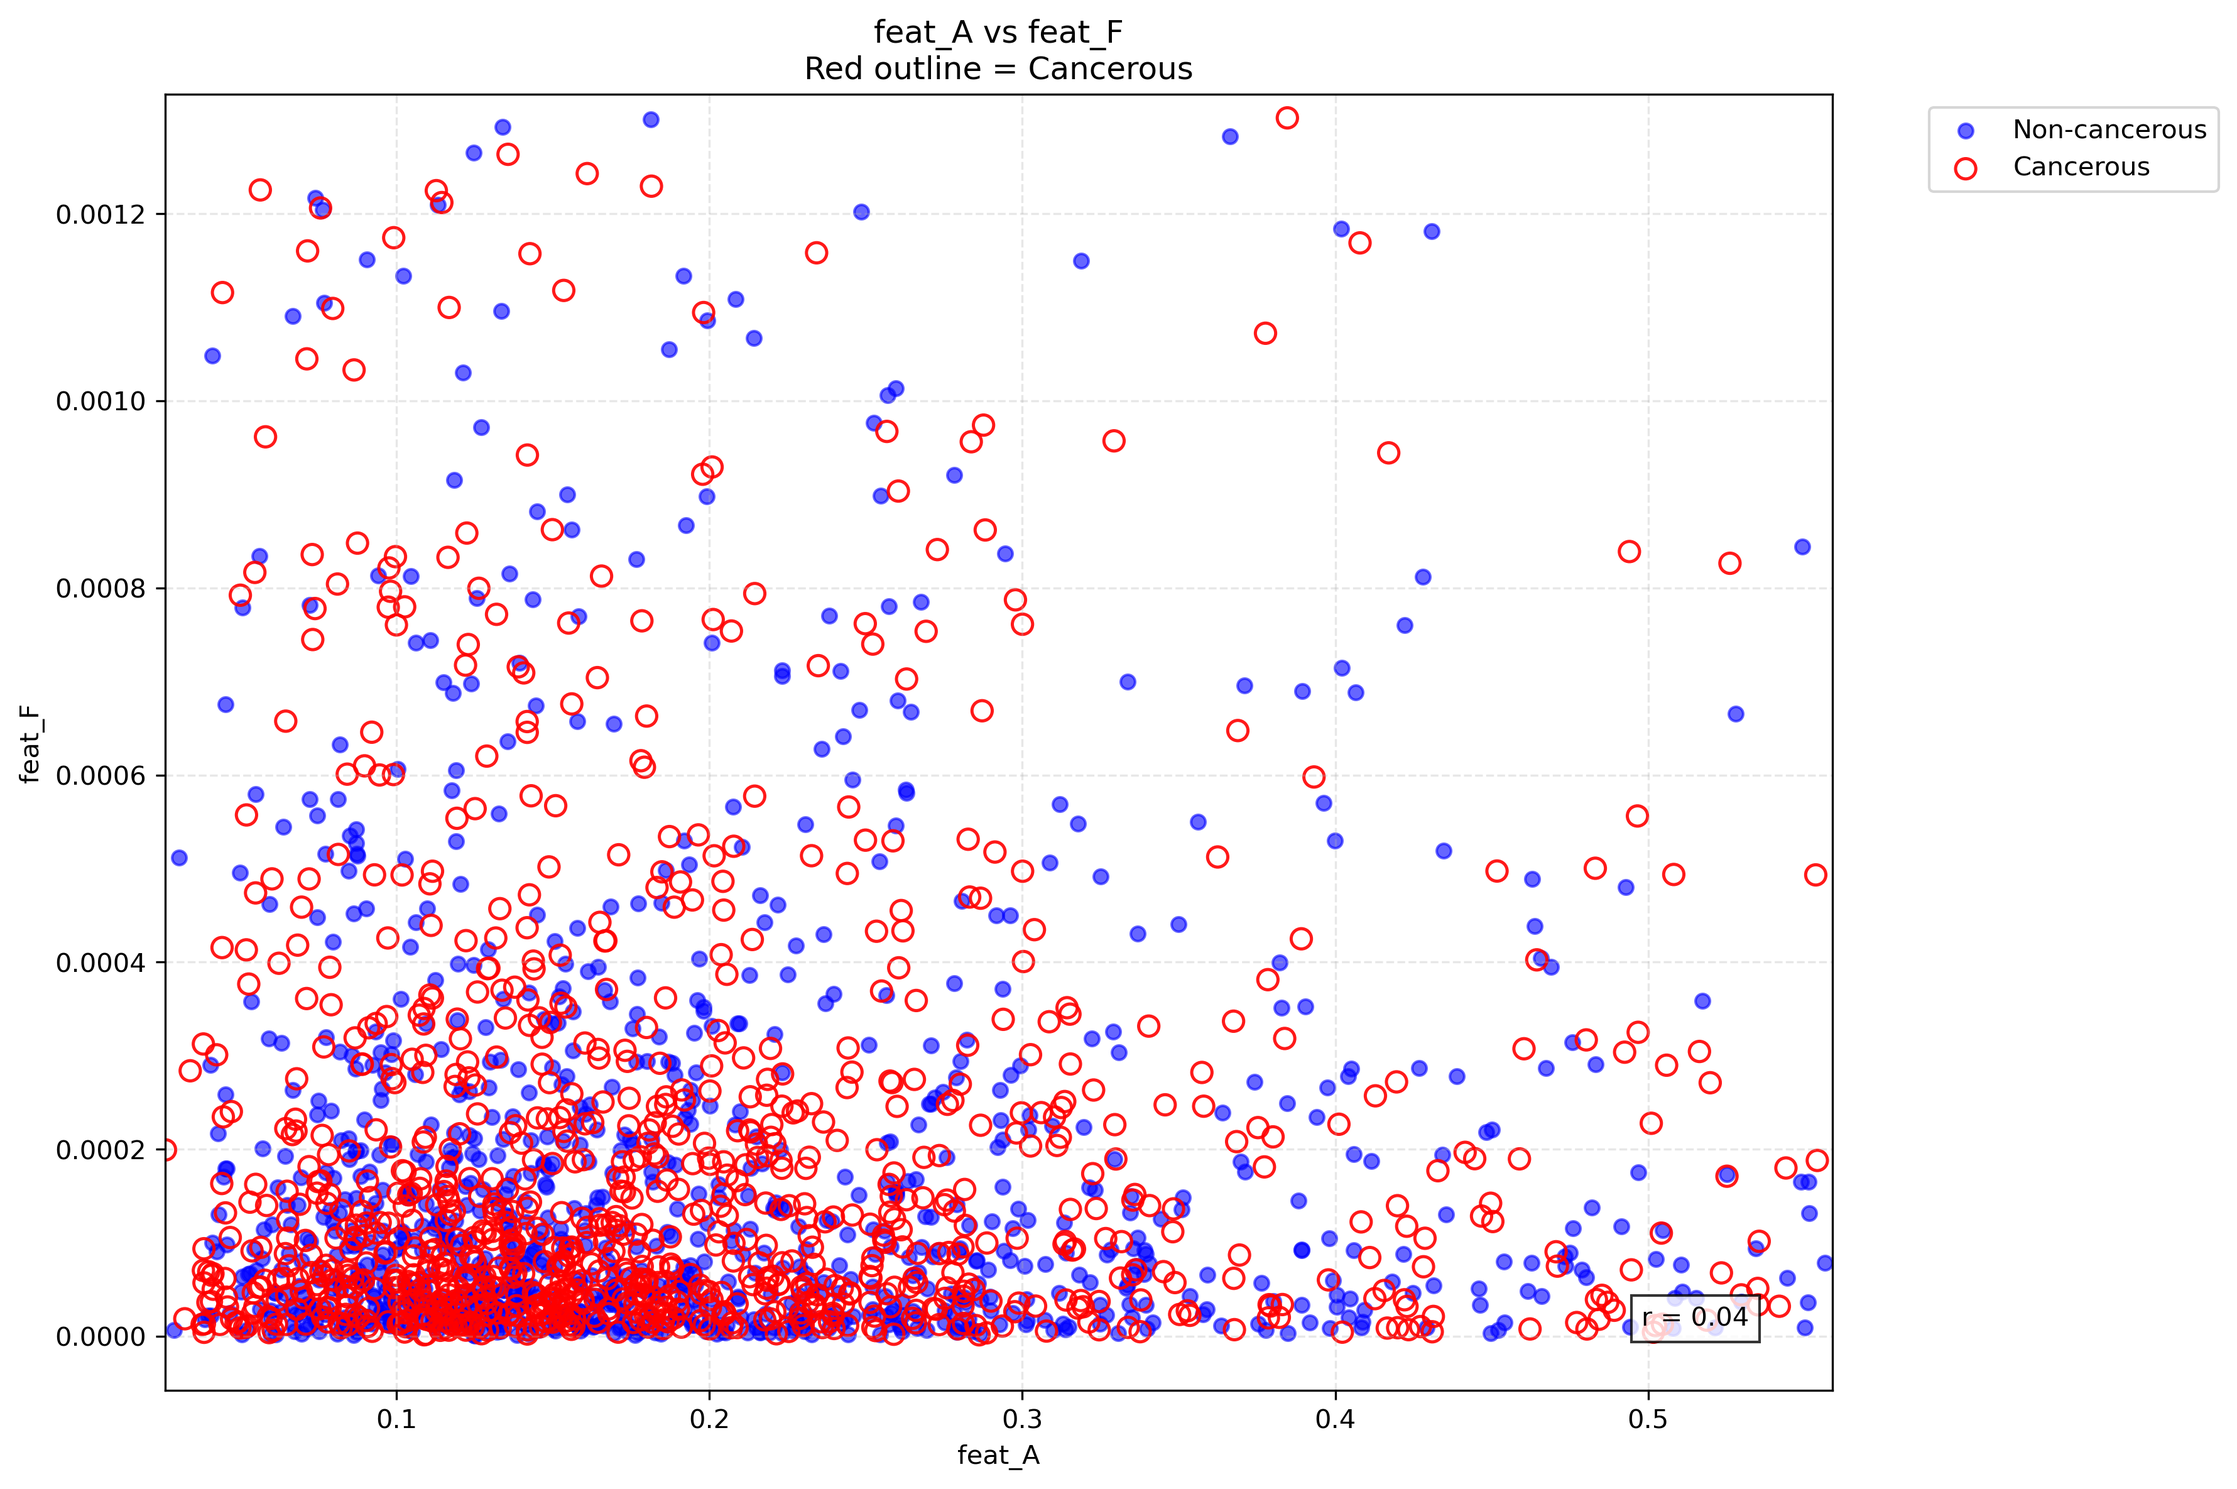
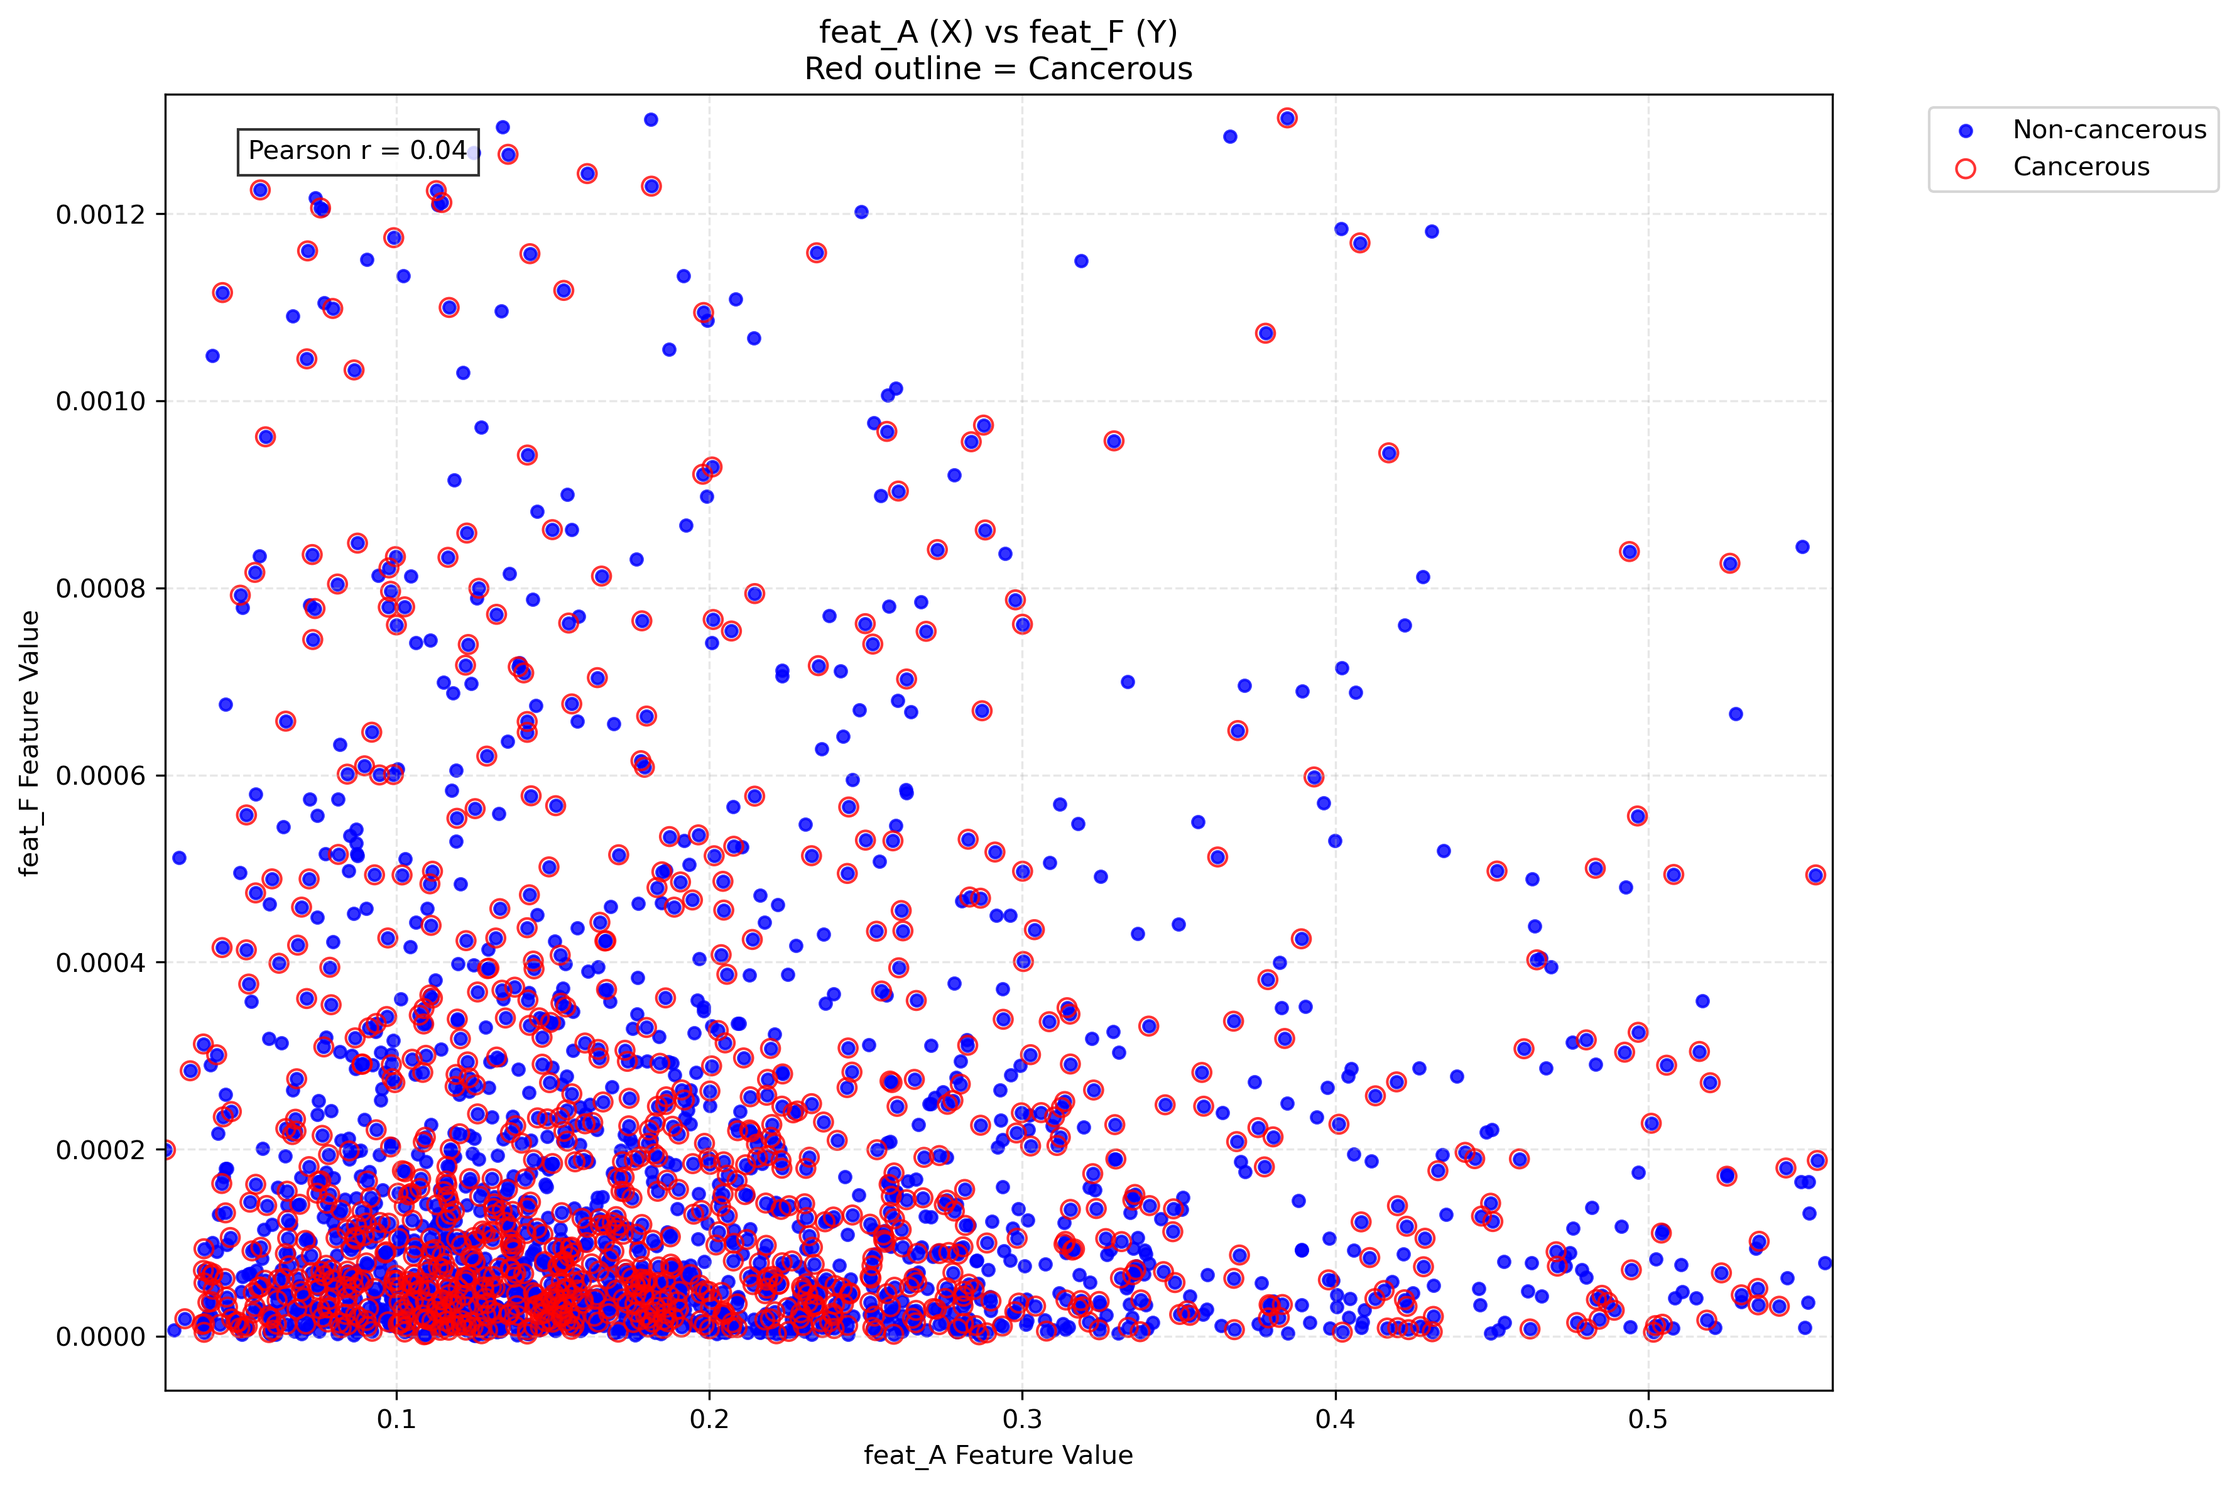
Finished Feature Analysis
Should look good now, final draft of feature analysis (Will add comments in it and all that later.)

diff --git a/util/featureanalysis.py b/util/featureanalysis.py
@@ -2,7 +2,7 @@ import os
 import pandas as pd
 import matplotlib.pyplot as plt
 import seaborn as sns
-from itertools import combinations
+from itertools import permutations
 import numpy as np
 from pathlib import Path
 
@@ -12,11 +12,11 @@ class FeatureAnalysis:
         self.result_dir = Path(result_dir)
         os.makedirs(self.result_dir, exist_ok=True)
         self.feature_cols = ['feat_A', 'feat_B', 'feat_C', 
-                           'feat_D', 'feat_E', 'feat_F']
+                             'feat_D', 'feat_E', 'feat_F']
         
     def load_dataset(self):
         """Load feature data from dataset.csv"""
-        dataset_path = Path("../dataset.csv")
+        dataset_path = Path("../dataset.csv")  # Will fix this path to non hardcoded later
         if not dataset_path.exists():
             raise FileNotFoundError(f"Dataset file not found at {dataset_path}")
             
@@ -37,88 +37,62 @@ class FeatureAnalysis:
         available_features = [f for f in self.feature_cols if f in self.df.columns]
         
         if combinations_to_plot is None:
-            combinations_to_plot = list(combinations(available_features, 2))
+            combinations_to_plot = list(permutations(available_features, 2))  # Use permutations to get A vs B and B vs A
             
         scatter_dir = self.result_dir / "scatter_plots"
         os.makedirs(scatter_dir, exist_ok=True)
         
         for feat1, feat2 in combinations_to_plot:
             plt.figure(figsize=(12, 8))
-            
+
             # Calculate axis limits using percentiles (focus on middle 95% of data)
             x_min = np.percentile(self.df[feat1], 2.5)
             x_max = np.percentile(self.df[feat1], 97.5)
             y_min = np.percentile(self.df[feat2], 2.5)
             y_max = np.percentile(self.df[feat2], 97.5)
-            
-            # Plot non-cancerous points first (if label exists)
+
+            # Create base scatter plot (feature-based coloring)
+            plt.scatter(self.df[feat1], self.df[feat2], 
+                        c='blue', alpha=0.8, label='Non-cancerous', s=20)
+
+            # Add cancer outlines if label_binary exists
             if 'label_binary' in self.df.columns:
-                # Non-cancerous points
-                non_cancer = self.df[self.df['label_binary'] == False]
-                plt.scatter(non_cancer[feat1], non_cancer[feat2],
-                           c='blue', alpha=0.6, s=30, label='Non-cancerous')
-                
-                # Cancerous points (with outline only)
-                cancer = self.df[self.df['label_binary'] == True]
-                plt.scatter(cancer[feat1], cancer[feat2],
-                           facecolors='none', edgecolors='red',
-                           linewidths=1.2, s=60, alpha=0.9, label='Cancerous')
-            else:
-                # If no labels, just plot all points
-                plt.scatter(self.df[feat1], self.df[feat2],
-                           c='blue', alpha=0.6, s=30)
-            
-            plt.title(f'{feat1} vs {feat2}\nRed outline = Cancerous')
-            plt.xlabel(f'{feat1}')
-            plt.ylabel(f'{feat2}')
-            
-            # Set dynamic axis limits with 5% padding
-            plt.xlim(x_min - 0.05*(x_max-x_min), x_max + 0.05*(x_max-x_min))
-            plt.ylim(y_min - 0.05*(y_max-y_min), y_max + 0.05*(y_max-y_min))
-            
-            # Add grid for better readability
+                cancer_mask = self.df['label_binary'] == True
+                plt.scatter(self.df[feat1][cancer_mask], self.df[feat2][cancer_mask],
+                            facecolors='none', edgecolors='red', 
+                            linewidths=1, s=50, alpha=0.8,
+                            label='Cancerous')
+
+            plt.title(f'{feat1} (X) vs {feat2} (Y)\nRed outline = Cancerous')
+            plt.xlabel(f'{feat1} Feature Value')
+            plt.ylabel(f'{feat2} Feature Value')
+
+            plt.xlim(x_min - 0.05*(x_max - x_min), x_max + 0.05*(x_max - x_min))
+            plt.ylim(y_min - 0.05*(y_max - y_min), y_max + 0.05*(y_max - y_min))
+
+            # Improve legend
+            handles, labels = plt.gca().get_legend_handles_labels()
+            unique_labels = dict(zip(labels, handles))  # Remove duplicates
+            plt.legend(unique_labels.values(), unique_labels.keys(),
+                       bbox_to_anchor=(1.05, 1), loc='upper left')
+
+            # Grid and layout
             plt.grid(True, linestyle='--', alpha=0.3)
-            
+
             # Add correlation coefficient
-            corr = self.df[[feat1, feat2]].corr().iloc[0,1]
-            plt.text(0.95, 0.05, f'r = {corr:.2f}', 
-                    transform=plt.gca().transAxes, ha='right',
-                    bbox=dict(facecolor='white', alpha=0.8))
-            
-            plt.legend(bbox_to_anchor=(1.05, 1), loc='upper left')
+            corr = self.df[[feat1, feat2]].corr().iloc[0, 1]
+            plt.text(0.05, 0.95, f'Pearson r = {corr:.2f}', 
+                     transform=plt.gca().transAxes, 
+                     bbox=dict(facecolor='white', alpha=0.8))
+
             plt.tight_layout()
-            
+
+            # Save the plot
             plot_path = scatter_dir / f'{feat1}_vs_{feat2}.png'
             plt.savefig(plot_path, dpi=300, bbox_inches='tight')
             plt.close()
-            print(f'Saved scatter plot: {plot_path}')
-    
-    def plot_feature_distributions(self):
-        """Plot distributions of all features"""
-        if not hasattr(self, 'df'):
-            self.load_dataset()
-            
-        available_features = [f for f in self.feature_cols if f in self.df.columns]
-        
-        dist_dir = self.result_dir / "feature_distributions"
-        os.makedirs(dist_dir, exist_ok=True)
-        
-        for feature in available_features:
-            plt.figure(figsize=(8, 5))
-            
-            # Plot based on label if available
-            if 'label_binary' in self.df.columns:
-                sns.histplot(data=self.df, x=feature, hue='label_binary', 
-                            element='step', stat='density', common_norm=False)
-            else:
-                sns.histplot(data=self.df, x=feature, kde=True)
-                
-            plt.title(f'Distribution of {feature}')
-            plt.tight_layout()
-            plt.savefig(dist_dir / f'{feature}_distribution.png', dpi=300)
-            plt.close()
-            print(f'Saved distribution plot: {dist_dir/f"{feature}_distribution.png"}')
-    
+            print(f'Saved enhanced scatter plot: {plot_path}')    
+              
     def analyze_all_features(self):
         """Run complete analysis pipeline"""
         self.load_dataset()
@@ -135,147 +109,30 @@ class FeatureAnalysis:
             plt.savefig(self.result_dir / 'feature_correlation.png', dpi=300)
             plt.close()
         
+        # Create feature distributions
         self.plot_feature_distributions()
         
         return self.df.describe()
-
-
-# import os
-# import pandas as pd
-# import matplotlib.pyplot as plt
-# import seaborn as sns
-# from itertools import combinations
-# import numpy as np
-# from pathlib import Path
-
-# class FeatureAnalysis:
-#     def __init__(self, data_dir='data', result_dir='result'):
-#         self.data_dir = Path(data_dir)
-#         self.result_dir = Path(result_dir)
-#         os.makedirs(self.result_dir, exist_ok=True)
-#         self.feature_cols = ['feat_A', 'feat_B', 'feat_C', 
-#                            'feat_D', 'feat_E', 'feat_F']
-        
-#     def load_dataset(self):
-#         """Load feature data from dataset.csv"""
-#         dataset_path = Path("../dataset.csv")  # Will fix this path to non hardcoded later
-#         if not dataset_path.exists():
-#             raise FileNotFoundError(f"Dataset file not found at {dataset_path}")
-            
-#         self.df = pd.read_csv(dataset_path)
-        
-#         # Verify we have all expected features
-#         missing = [f for f in self.feature_cols if f not in self.df.columns]
-#         if missing:
-#             print(f"Warning: Missing features {missing} in dataset")
-            
-#         return self.df
-
-#     def plot_feature_combinations(self, combinations_to_plot=None):
-#         """Generate scatter plots with dual coloring scheme"""
-#         if not hasattr(self, 'df'):
-#             self.load_dataset()
-            
-#         available_features = [f for f in self.feature_cols if f in self.df.columns]
-        
-#         if combinations_to_plot is None:
-#             combinations_to_plot = list(combinations(available_features, 2))
-            
-#         scatter_dir = self.result_dir / "scatter_plots"
-#         os.makedirs(scatter_dir, exist_ok=True)
-        
-#         for feat1, feat2 in combinations_to_plot:
-#             plt.figure(figsize=(12, 8))
-            
-#             # Create base scatter plot (feature-based coloring)
-#             plt.scatter(self.df[feat1], self.df[feat2], 
-#                        c='blue', alpha=0.8, label=feat1,s=20)
-#             plt.scatter(self.df[feat2], self.df[feat1], 
-#                        c='orange', alpha=0.8, label=feat2,s=20)
-            
-#             # Add cancer outlines if label_binary exists
-#             if 'label_binary' in self.df.columns:
-#                 # Cancerous cases (with red outline)
-#                 cancer_mask = self.df['label_binary'] == True
-#                 plt.scatter(self.df[feat1][cancer_mask], self.df[feat2][cancer_mask],
-#                            facecolors='none', edgecolors='red', 
-#                            linewidths=1, s=50, alpha=0.8,
-#                            label='Cancerous')
-                
-#                 # # Non-cancerous cases (no outline, just keep original colors)
-#                 # non_cancer_mask = self.df['label_binary'] == False
-#                 # plt.scatter(self.df[feat1][non_cancer_mask], self.df[feat2][non_cancer_mask],
-#                 #            c='blue', alpha=0.4, label='Non-cancerous (Feat1)')
-#                 # plt.scatter(self.df[feat2][non_cancer_mask], self.df[feat1][non_cancer_mask],
-#                 #            c='green', alpha=0.4, label='Non-cancerous (Feat2)')
-            
-#             plt.title(f'{feat1} (blue) vs {feat2} (orange)\nRed outline = Cancerous')
-#             plt.xlabel(f'{feat1} Feature Value')
-#             plt.ylabel(f'{feat2} Feature Value')
-            
-#             # Improve legend
-#             handles, labels = plt.gca().get_legend_handles_labels()
-#             unique_labels = dict(zip(labels, handles))  # Remove duplicates
-#             plt.legend(unique_labels.values(), unique_labels.keys(),
-#                       bbox_to_anchor=(1.05, 1), loc='upper left')
-            
-#             # Add correlation coefficient
-#             corr = self.df[[feat1, feat2]].corr().iloc[0,1]
-#             plt.text(0.05, 0.95, f'Pearson r = {corr:.2f}', 
-#                     transform=plt.gca().transAxes, 
-#                     bbox=dict(facecolor='white', alpha=0.8))
-            
-#             plt.tight_layout()
-            
-#             # Save the plot
-#             plot_path = scatter_dir / f'{feat1}_vs_{feat2}.png'
-#             plt.savefig(plot_path, dpi=300, bbox_inches='tight')
-#             plt.close()
-#             print(f'Saved enhanced scatter plot: {plot_path}')    
-              
-#     def analyze_all_features(self):
-#         """Run complete analysis pipeline"""
-#         self.load_dataset()
-#         self.plot_feature_combinations()
-        
-#         # Create correlation matrix
-#         available_features = [f for f in self.feature_cols if f in self.df.columns]
-#         if len(available_features) > 1:
-#             corr_matrix = self.df[available_features].corr()
-#             plt.figure(figsize=(10, 8))
-#             sns.heatmap(corr_matrix, annot=True, cmap='coolwarm', center=0, fmt='.2f')
-#             plt.title('Feature Correlation Matrix')
-#             plt.tight_layout()
-#             plt.savefig(self.result_dir / 'feature_correlation.png', dpi=300)
-#             plt.close()
-        
-#         # Create feature distributions
-#         self.plot_feature_distributions()
-        
-#         return self.df.describe()
     
-#     def plot_feature_distributions(self):
-#         """Plot distributions of all features"""
-#         available_features = [f for f in self.feature_cols if f in self.df.columns]
+    def plot_feature_distributions(self):
+        """Plot distributions of all features"""
+        available_features = [f for f in self.feature_cols if f in self.df.columns]
         
-#         dist_dir = self.result_dir / "feature_distributions"
-#         os.makedirs(dist_dir, exist_ok=True)
+        dist_dir = self.result_dir / "feature_distributions"
+        os.makedirs(dist_dir, exist_ok=True)
         
-#         for feature in available_features:
-#             plt.figure(figsize=(8, 5))
+        for feature in available_features:
+            plt.figure(figsize=(8, 5))
             
-#             # Plot based on label if available
-#             if 'label_binary' in self.df.columns:
-#                 sns.histplot(data=self.df, x=feature, hue='label_binary', 
-#                             element='step', stat='density', common_norm=False)
-#             else:
-#                 sns.histplot(data=self.df, x=feature, kde=True)
+            # Plot based on label if available
+            if 'label_binary' in self.df.columns:
+                sns.histplot(data=self.df, x=feature, hue='label_binary', 
+                             element='step', stat='density', common_norm=False)
+            else:
+                sns.histplot(data=self.df, x=feature, kde=True)
                 
-#             plt.title(f'Distribution of {feature}')
-#             plt.tight_layout()
-#             plt.savefig(dist_dir / f'{feature}_distribution.png', dpi=300)
-#             plt.close()
-#             print(f'Saved distribution plot: {dist_dir / f"{feature}_distribution.png"}')
-
-
-
+            plt.title(f'Distribution of {feature}')
+            plt.tight_layout()
+            plt.savefig(dist_dir / f'{feature}_distribution.png', dpi=300)
+            plt.close()
+            print(f'Saved distribution plot: {dist_dir / f"{feature}_distribution.png"}')
